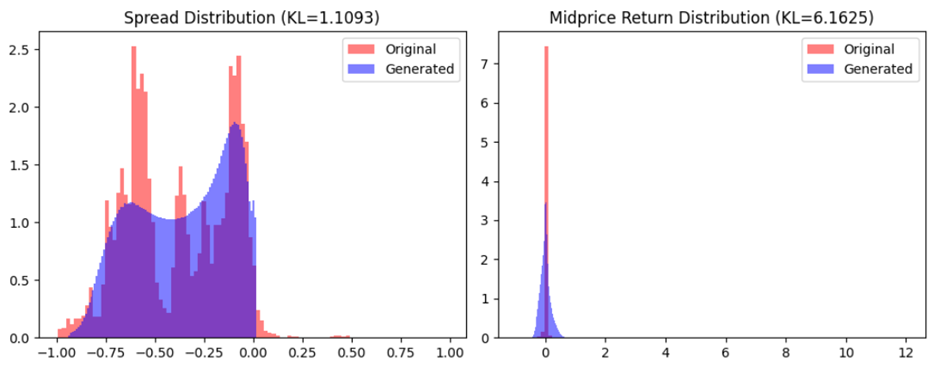
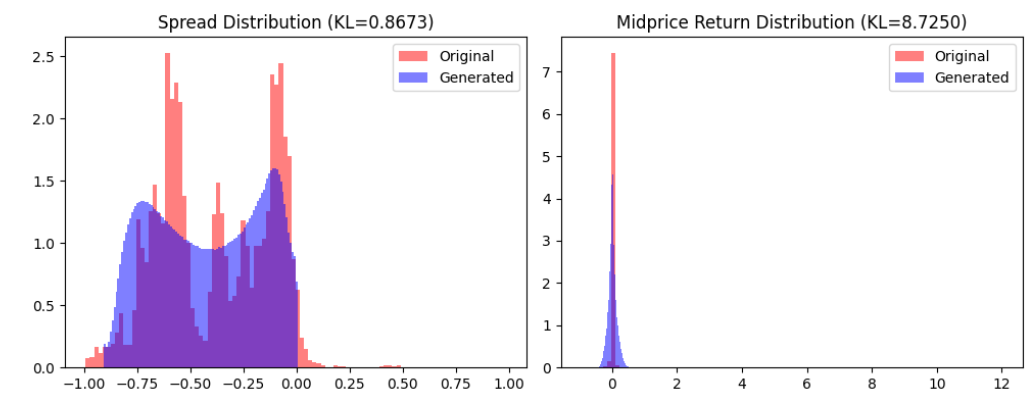
Final Iteration. Lowest achieved KL was 0.8 while mean SSIM was 0.9932 which is greater than 0.6. Random sampling lowest SSIM was 0.518 while highest random SSIM is 0.952.

Changed region(s): [[0.0, 0.03, 1.0, 0.9891]]

diff --git a/recognition/TimeGAN_LOB_AMZN_10_47480063/README.md b/recognition/TimeGAN_LOB_AMZN_10_47480063/README.md
@@ -97,14 +97,14 @@ TimeGAN utilises three stages of training:
 ***Embedding Network Training***\
 The embedded training is the first phase of training where the model learns a meaningful latent representation of the LOB sequences. Before adversarial training begins, the model must learn to encode and reconstruct like an autoencoder data via the embedder and recovery module respectively. Firstly, real sequences are fed through the autoencoder to learn meaningful encoding and reconstruction. The MSE is computed to minimise differences between original and reconstructed data. Backpropagation and weights are updated to optimise embedder and recovery jointly and the process repeats until the reconstruction error is small. In summary, this phase allows the model to understand the structure of real market dynamics before it generates synthetic ones. 
 
-This phase takes approximately 5 minutes to complete 5000 epochs with a training loss of 0.2103. 
+This phase takes approximately 5 minutes to complete 5000 epochs with a training loss of 0.1677. 
 
 ***Supervised Loss Training***\
 The supervised training is the second phase where the model learns the temporal dynamics of the latent representations. Where the embedder maps real data to the latent space $H$, the supervisor learns to predict the next hidden state $H_{t+1}$ from the current latent space $H_t$. Afterwards the generator relies on the supervisor to produce temporally consistent synthetic latent trajectories. Firstly, an optimiser is constructed that only trains the supervisor and a masked MSE loss function is defined to ensure variable-length sequences do not contribute extra zeros to the loss. The training loop is setup with batch preparation before predicting the next latent step and computing the supervised loss. Backpropagation occurs and the supervisor’s parameters are updated. 
 
 Additionally, an extra fine tuning loop was added to realign the supervisor with the latest embedder outputs to ensure that they are synchronised before joint training starts. This reruns the supervisor phase for 1000 iterations using the finalised embedder to reduce instability, improve temporal coherence and smooths loss transitions. This also stabilises joint training so that **g_loss_s** and **g_loss_u** can start from a good baseline
 
-This phase (including fine tuning) takes approximately 4 minutes to compute 4000 epochs (+ additional 1000 fine tuning epoch) with a training loss of 0.0209. 
+This phase (including fine tuning) takes approximately 4 minutes to compute 4000 epochs (+ additional 1000 fine tuning epoch) with a training loss of 0.0256. 
 
 ***Joint Training***\
 Joint training is the final phase of TimeGAN. The purpose of joint training is to enable the generator and supervisor to produce synthetic latent sequences that fool the discriminator (through adversarial learning), maintain temporal consistency (through supervised learning), maintain feature statistics of real data and keep embedding consistent with reconstruction.
@@ -121,35 +121,34 @@ In the embedder and recovery stage, the reconstruction loss is computed to force
 Discriminator training allows the discriminator to better separate real and fake latent sequences. Gaussian noise is added to regularise the discriminator, the BCE losses are computed and gradient penalty is added for stability. GAN stabilisers perform label smoothing and flipping to prevent overconfidence in the discriminator. The discriminator is only trained when it is weak to avoid overfitting.
 
 This phase takes approximately 50 minutes to compute 5000 epochs with:
-* **d_loss** (discriminator accuracy) = 2.4884
-* **g_loss_u** (adversarial success) = 0.5648
-* **g_loss_s** (temporal consistency) = 0.3041 
-* **g_loss_v** (moment matching) = 0.0468
-* **e_loss_t0** (reconstruction quality) = 0.1735
+* **d_loss** (discriminator accuracy) = 2.1443
+* **g_loss_u** (adversarial success) = 0.9657
+* **g_loss_s** (temporal consistency) = 0.2436 
+* **g_loss_v** (moment matching) = 0.0394
+* **e_loss_t0** (reconstruction quality) = 0.1649
 
 The generator learns to synthesize realistic market state trajectories, the supervisor enforces temporal realism so that prices and volumes evolve smoothly, the discriminator ensures fake order-book sequences follow the same patterns as the real data and the moment-matching term keeps means, spreads, and volatilities aligned with historical statistics. 
 
 After the three phases of training, synthetic data is generated using all samples. The results are synthetic LOB sequences that look, behave, and distribute statistically like real market data.
 ## Results and Discussion
 The project was conducted using A100 High RAM GPU. \
-System RAM used was 18.2/167.1 GB, VRAM used was 8.5GB/80GB and Disk space used is 39.7/235.7 GB. \
-Total runtime from preprocessing to training to synthesising took 57 minutes. \
+Total system RAM used was 14.4/167.1 GB, VRAM used was 8.5GB/80GB and Disk space used is 39.7/235.7 GB. \
+The total runtime from preprocessing to training to synthesising took 57 minutes.
 
 _Figure 1: KL Divergence, generated and real spread on the left and midprice return on the right_
-![alt text](image-5.png)
+![alt text](image-1.png)
 _Figure 2: SSIM between heatmaps of generated vs real LOB depth snapshots_
-![alt text](image-6.png)
+![alt text](image-2.png)
 _Figure 3: 5 representative heatmap visualisation of generated vs real LOBs_
-![alt text](image-7.png)
-![alt text](image-8.png)
+![alt text](image-3.png)
+![alt text](image-4.png)
 
-Figure 1 shows that the KL divergence for spread is 1.0614 while KL divergence for midprice return is 8.6134. In the real world, midprice return are typically non-Gaussian, heavy-tailed, skewed and contains high volatility while bid-ask pricing spread are usually bounded, low variance, and near discrete tick multiples. This makes it easier for TimeGAN to learn and reproduce spread as opposed to midprice returns which is seen in the higher KL divergence in midprice returns.
+Figure 1 shows that the KL divergence for spread is 0.8673 while KL divergence for midprice return is 8.7250. In the real world, midprice return are typically non-Gaussian, heavy-tailed, skewed and contains high volatility while bid-ask pricing spread are usually bounded, low variance, and near discrete tick multiples. This makes it easier for TimeGAN to learn and reproduce spread as opposed to midprice returns which is seen in the higher KL divergence in midprice returns.
 
-Figure 2 indicates that the mean SSIM is 0.9932. Given that an SSIM of 1 indicates a perfect match, the generated image is a very accurate representation of the original real data. Meanwhile, Figure 3 shows 5 representative heatmap visualisation of generated vs real LOBs randomly selected. The generated LOB with the highest SSIM is sample 219517 with an SSIM of 0.952 while the lowest scoring SSIM is sample 33649 with an SSIM of 0.518. The other three samples excluding the highest and lowest SSIM range from 0.857 to 0.924. Out of the five samples taken, the SSIM average was approximately 0.831. This achieved the visual similarity goal of SSIM being greater than 0.6 which suggests that the generated LOBs are visually similar to the real LOBs.  
+Figure 2 indicates that the mean SSIM is 0.9932. Given that an SSIM of 1 indicates a perfect match, the generated image is a very accurate representation of the original mean data. Meanwhile, Figure 3 shows 5 representative heatmap visualisation of generated vs real LOBs randomly selected. The generated LOB with the highest SSIM is sample 219517 with an SSIM of 0.952 while the lowest scoring SSIM is sample 33649 with an SSIM of 0.518. The other three samples excluding the highest and lowest SSIM range from 0.857 to 0.924. Out of the five samples taken, the SSIM average was approximately 0.831. This achieved the visual similarity goal of SSIM being greater than 0.6 which suggests that the generated LOBs are visually similar to the real LOBs.  
 
 ## Conclusion
-The TimeGAN was relatively accurate in its heatmaps of generated vs real LOBs based on the SSIM metric. However, the KL divergence was unable to reach 0.1, with the closest being 1.1093 from ask-bid spread. 
-Potential improvements to decrease the KL divergence to 0.1 includes replacing RNNs with transformer encoder to improve realism and coherence, using adaptive learning rates, adding feature matching loss and introducing temporal consistency penalty. 
+The TimeGAN was relatively accurate in its heatmaps of generated vs real LOBs based on the SSIM metric. However, the KL divergence was unable to reach 0.1, with the closest being 1.1093 from ask-bid spread. Potential improvements could work on decreasing the KL divergence to 0.1 and improving representative heatmaps such that the lowest SSIM is 0.6. This can be achieved by testing various methods such as replacing RNNs with transformer encoder to improve realism and coherence, using adaptive learning rates, adding feature matching loss and introducing temporal consistency penalty. 
 
 ## References
 datacamp. (2024, January 4). What is Normalization in Machine Learning? A Comprehensive Guide to Data Rescaling. Retrieved from datacamp: https://www.datacamp.com/tutorial/normalization-in-machine-learning
